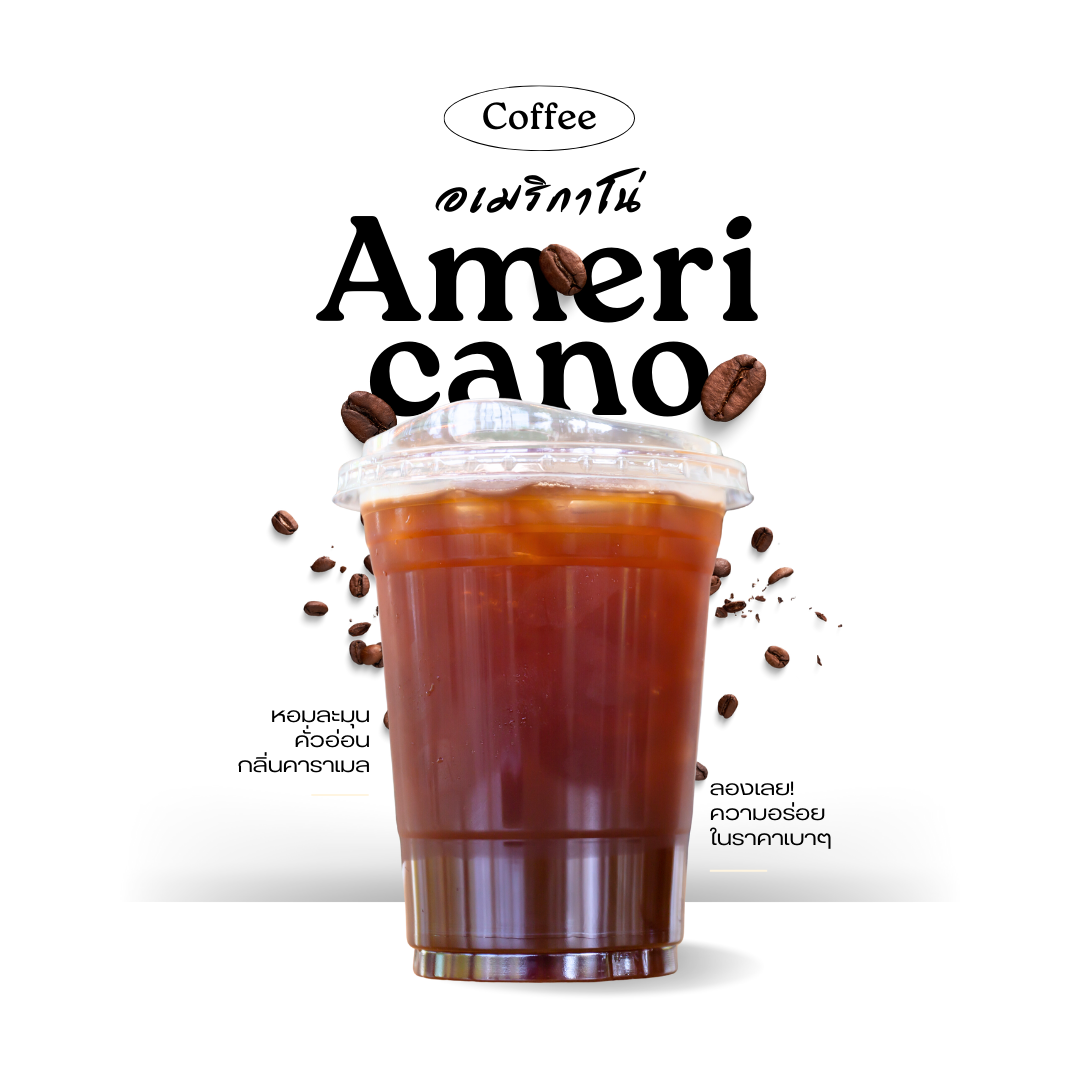
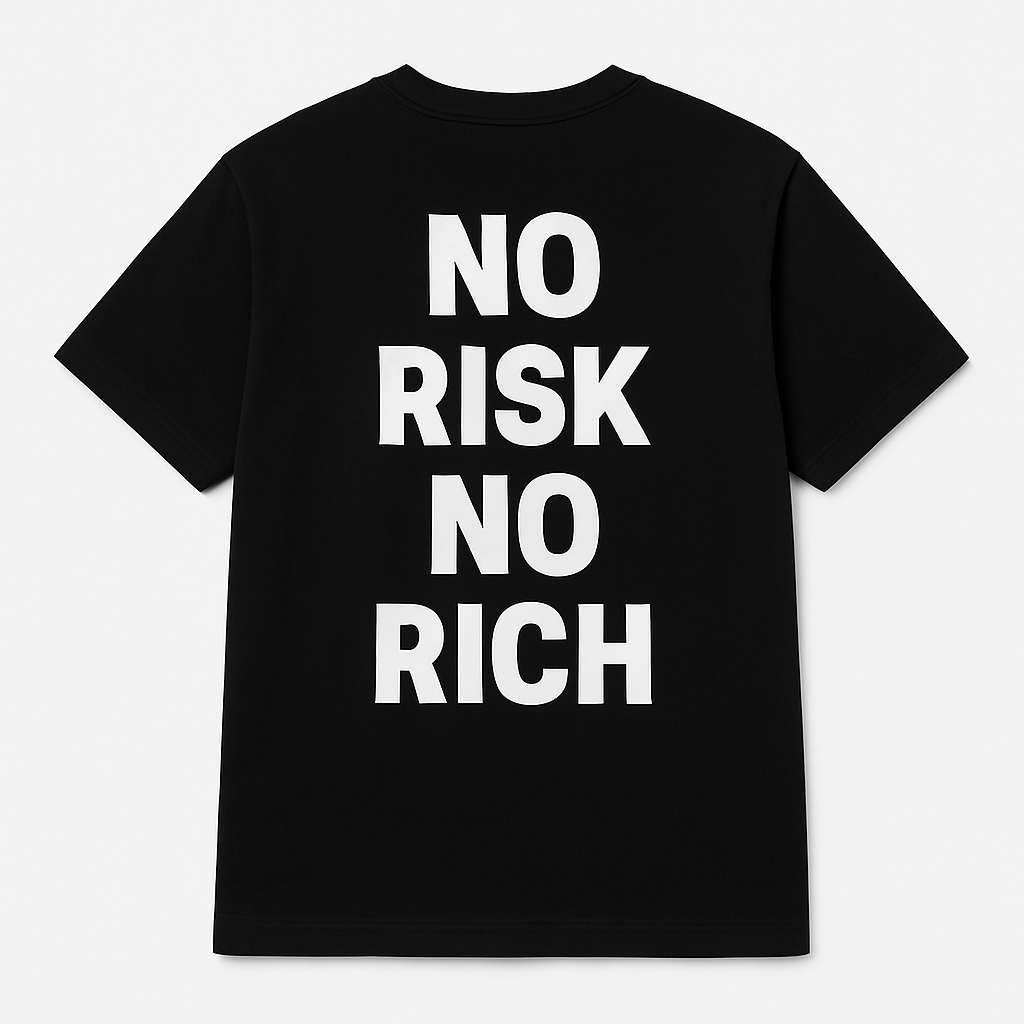
push

diff --git a/app/page.jsx b/app/page.jsx
@@ -5,12 +5,14 @@ import Image from "next/image";
 import React, { useState, useEffect } from "react";
 
 const products = [
-  { id: 1, name: "อเมริกาโน่", price: 60, imageUrl: "/photo/photo1.png", description: "" },
-  { id: 2, name: "น้ำผลไม้", price: 69, imageUrl: "/photo/photo2.png", description: "" },
-  { id: 3, name: "นม", price: 69, imageUrl: "/photo/photo3.png", description: "" },
-  { id: 4, name: "เค้ก", price: 89, imageUrl: "/photo/photo4.png", description: "" },
-  { id: 5, name: "ขนมปังปิ้ง", price: 89, imageUrl: "/photo/photo5.png", description: "" },
-  { id: 6, name: "คุกกี้", price: 95, imageUrl: "/photo/photo6.png", description: "" },
+  { id: 1, name: "NO RICH", price: 399, imageUrl: "/photo/photo1 (1).png", description: "" },
+  { id: 2, name: "P9D COLLECTION - White", price: 699, imageUrl: "/photo/photo2.png", description: "" },
+  { id: 3, name: "FREE", price: 69, imageUrl: "/photo/photo3.png", description: "" },
+  { id: 4, name: "FREE", price: 89, imageUrl: "/photo/photo1 (1).png", description: "" },
+  { id: 5, name: "FREE", price: 89, imageUrl: "/photo/photo1 (1).png", description: "" },
+  { id: 6, name: "FREE", price: 95, imageUrl: "/photo/photo1 (1).png", description: "" },
+  { id: 7, name: "FREE", price: 95, imageUrl: "/photo/photo1 (1).png", description: "" },
+  { id: 8, name: "FREE", price: 95, imageUrl: "/photo/photo1 (1).png", description: "" },
 ];
 
 const bannerImages = [
@@ -65,71 +67,80 @@ export default function Home() {
 
 
 
-  return (
-    <div>
-      <div className="container mx-auto ">
-        {/* Notification Section */}
-        {notification && (
-          <div className="fixed top-[80px] left-1/2 transform -translate-x-1/2 max-w-sm w-full bg-[#979797] text-[#FFFFFF] p-4 rounded-lg shadow-md z-50 transition-opacity duration-300 text-center">
-            {notification}
-          </div>
-        )}
+return (
+<main className="bg-white py-10 px-4 max-w-7xl mx-auto">
+  <section className="w-full flex justify-end">
+    <div className="flex flex-col gap-5 max-w-[1300px] p-5">
+      <h1 className="text-start md:text-end font-semibold text-[18px] md:text-[33px] text-black/60">
+        Discover <span className="text-black">New products to select</span>
+      </h1>
+    </div>
+  </section>
 
-        {/* Banner Section */}
-        <section className={`relative w-full overflow-hidden h-[50vh] md:h-[80vh] transition-opacity duration-500 ${showBanner ? "opacity-100" : "opacity-0"}`}>
-          <div
-            className="relative w-full h-full flex transition-transform duration-1000 ease-in-out"
-            style={{ transform: `translateX(-${(currentBanner * 100)}%)` }}
-            onMouseDown={handleMouseDown}
-            onMouseMove={handleMouseMove}
-          >
-            {bannerImages.map((banner, index) => (
-              <div
-                key={index}
-                className="flex-shrink-0 w-full h-full bg-cover bg-center"
-                style={{ backgroundImage: `url(${banner.url})` }}
-              >
-                <div className="relative container mx-auto h-full flex flex-col justify-center">
-                  <div className="absolute inset-0 bg-black bg-opacity-20 rounded-xl shadow-2xl text-center p-8 flex flex-col justify-center items-center">
-                    <h1 className="text-4xl md:text-6xl mb-2 font-orbitron tracking-wide font-bold text-white">
-                      {banner.caption}
-                    </h1>
-                 
-                  </div>
-                </div>
-              </div>
+<div className="grid grid-cols-1 sm:grid-cols-2 lg:grid-cols-4 gap-6 max-w-7xl mx-auto p-4">
+  {products.map((product) => (
+    <div
+      key={product.id}
+      className="bg-white   transition-shadow duration-300 overflow-hidden group"
+    >
+      {/* Product Image Container */}
+      <div className="relative bg-[#f5f5f7] pb-5 aspect-square">
+        <Image
+          src={product.imageUrl}
+          alt={product.name}
+          width={300}
+          height={300}
+          className="w-full h-full object-contain p-4 "
+        />
+        
+        {/* Action Buttons */}
+        <div className="absolute top-4 right-4 flex flex-col gap-3">
+          <button className="w-10 h-10  border-gray-200 rounded-sm  text-black font-bold flex items-center justify-center  shadow-sm">
+            <svg className="w-5 h-5 text-black font-bold" fill="none" stroke="currentColor" viewBox="0 0 24 24">
+              <path strokeLinecap="round" strokeLinejoin="round" strokeWidth={1.5} d="M4.318 6.318a4.5 4.5 0 000 6.364L12 20.364l7.682-7.682a4.5 4.5 0 00-6.364-6.364L12 7.636l-1.318-1.318a4.5 4.5 0 00-6.364 0z" />
+            </svg>
+          </button>
+          <button className="w-10 h-10  border-gray-200 rounded-sm flex items-center justify-center  shadow-sm">
+            <svg className="w-5 h-5 text-gray-600" fill="none" stroke="currentColor" viewBox="0 0 24 24">
+              <path strokeLinecap="round" strokeLinejoin="round" strokeWidth={1.5} d="M16 11V7a4 4 0 00-8 0v4M5 9h14l1 12H4L5 9z" />
+            </svg>
+          </button>
+        </div>
+
+        {/* Buy Now Overlay */}
+        <div className="absolute inset-x-0 bottom-0 bg-black backdrop-blur-sm text-white text-center py-2 opacity-0 group-hover:opacity-100 transition-opacity duration-300">
+          <button className="text-sm font-medium hover:text-gray-200 transition-colors">
+            Buy Now
+          </button>
+        </div>
+      </div>
+
+      {/* Product Details */}
+      <div className="p-4 space-y-2">
+        <h3 className="text-black line-clamp-2 text-sm font-medium leading-5">
+          {product.name}
+        </h3>
+        
+        <p className=" text-xs text-gray-600">
+          ฿{product.price.toLocaleString()}
+        </p>
+
+        {/* Rating */}
+        <div className="flex items-center justify-start gap-1 pt-1">
+          <div className="flex text-gray-300">
+            {[...Array(5)].map((_, i) => (
+              <span key={i} className="text-lg">☆</span>
             ))}
           </div>
-        </section>
-
-        {/* Featured Products Section */}
-        <main id="featured-products" className="container mx-auto px-4 pt-20">
-  <h1 className={`text-center tracking-wide my-12 font-bold text-black/70 text-3xl transition-opacity duration-500 ${showFeaturedTitle ? "opacity-100" : "opacity-0"}`}>
-    รายการอาหาร
-  </h1>
-  <div className={`grid grid-cols-1 sm:grid-cols-1 md:grid-cols-2 lg:grid-cols-3 gap-8 transition-opacity duration-500 ${showProducts ? "opacity-100" : "opacity-0"}`}>
-    {products.map((product) => (
-      <div key={product.id} className="border border-gray-200 rounded-lg shadow-lg p-6 bg-white transform transition-transform duration-300 hover:scale-105 hover:shadow-2xl flex flex-col h-full">
-        <div className="flex justify-center mb-4">
-          <Image src={product.imageUrl} alt={product.name} width={300} height={300} className="rounded-lg object-cover" />
+          <span className="text-xs text-gray-500 ml-1">(0)</span>
         </div>
-        <div className="flex flex-col flex-grow">
-          <h2 className="text-black text-center text-lg font-semibold mb-2">{product.name}</h2>
-          <p className="text-gray-600 text-center mb-4">{product.description}</p>
-          <p className="text-black text-center font-bold mb-4">ราคา: {product.price} บาท</p>
-        </div>
-        <button
-          onClick={() => handleAddToCart(product)}
-          className="bg-[#000000] text-white py-2 px-4 rounded-lg hover:bg-[#27251f] focus:outline-none focus:ring-2 focus:ring-white focus:ring-opacity-50 active:bg-black transition-colors duration-300 w-full mt-auto"
-        >
-          สั่งซื้อ
-        </button>
-      </div>
-    ))}
-  </div>
-</main>
-
       </div>
     </div>
-  );
+  ))}
+</div>
+</main>
+
+
+);
+
 }

diff --git a/components/Navbar.jsx b/components/Navbar.jsx
@@ -22,10 +22,11 @@ export default function Navbar() {
 
     return (
         <>
-            <nav className="container mx-auto fixed top-0 left-0 right-0 bg-white shadow-lg z-10 p-5 flex justify-between items-center">
+            <nav className="container mx-auto fixed top-0 left-0 right-0 bg-white border-b z-10  flex justify-between items-center">
                 <div className="text-black/80 text-3xl font-bold font-sans">
-                    <Link href="/" className="hover:text-gray-300 transition duration-300"> WUTTINAN CAFE.</Link>
+                    <Link href="/" className="hover:text-gray-300 transition duration-300"></Link>
                 </div>
+
 
                 {/* Hamburger Icon for Mobile */}
                 <div className="md:hidden" onClick={toggleMenu}>
@@ -44,10 +45,10 @@ export default function Navbar() {
                 {/* Desktop Menu */}
                 <ul className={`hidden md:flex md:space-x-8 text-black font-sans text-lg font-thin`}>
                     <li className="my-2">
-                        <Link href="/" className="hover:text-gray-300 transition duration-300">หน้าหลัก</Link>
+                        <Link href="/" className="hover:text-gray-300 transition text-sm duration-300">Home</Link>
                     </li>
                     <li className="my-2">
-                        <Link href="/" onClick={handleScrollToProducts} className="hover:text-gray-300 transition duration-300">เครื่องดื่ม</Link>
+                        <Link href="/" onClick={handleScrollToProducts} className="hover:text-gray-300 transition   text-sm duration-300">Products</Link>
                     </li>
                     <li className="my-2 flex items-center">
                         <Link href="/Cart" className="hover:text-gray-300 transition duration-300 relative">
@@ -60,7 +61,7 @@ export default function Navbar() {
                         </Link>
                     </li>
                     <li className="my-2">
-                        <Link href="/contact" className="hover:text-gray-700 transition duration-300">ติดต่อ</Link>
+                        <Link href="/contact" className="hover:text-gray-700 transition  text-sm duration-300">Contact</Link>
                     </li>
                 </ul>
             </nav>

diff --git a/components/Footer.jsx b/components/Footer.jsx
@@ -4,10 +4,15 @@ const Footer = () => {
   return (
     <footer className="bg-transparent text-black/80 pb-[100px] py-10 border-t  mt-[50px] border-gray-300">
       <div className="container mx-auto text-center">
-        <p className="mb-2">&copy; 2024 Wuttinan. All rights reserved.</p>
+        <p className="mb-2">&copy; 2024 เลวยันเงา. All rights reserved.</p>
         
+              <div className="">
+          <h3 className="text-lg font-semibold">About Us</h3>
+          <p className="max-w-md mx-auto">
+            {/* We are a team of passionate developers dedicated to creating innovative and user-friendly web applications. */}
+          </p>
+        </div>
         <div className="flex flex-col items-center space-y-4">
-          <p>Follow us on social media:</p>
           <div className="flex space-x-4">
             <a href="#" className="hover:text-blue-500">Facebook</a>
             <a href="#" className="hover:text-blue-500">Twitter</a>
@@ -15,12 +20,7 @@ const Footer = () => {
           </div>
         </div>
 
-        <div className="mt-10">
-          <h3 className="text-lg font-semibold">About Us</h3>
-          <p className="max-w-md mx-auto">
-            We are a team of passionate developers dedicated to creating innovative and user-friendly web applications.
-          </p>
-        </div>
+  
       </div>
     </footer>
   );

diff --git a/app/globals.css b/app/globals.css
@@ -1,5 +1,7 @@
 @import url('https://fonts.googleapis.com/css2?family=Orbitron&display=swap');
-@import url('https://fonts.googleapis.com/css2?family=Poppins:wght@400;500;600&display=swap');
+@import url('https://fonts.googleapis.com/css2?family=Outfit:wght@300;400;500;600;700&display=swap');
+@import url('https://fonts.googleapis.com/css2?family=Outfit:wght@100..900&display=swap');
+
 
 @tailwind base;
 @tailwind components;
@@ -15,7 +17,6 @@
   width: 8px;
   /* ความกว้างของ Scrollbar */
 }
-
 ::-webkit-scrollbar-thumb {
   background-color: #9b9b9b;
   /* สีของ Scrollbar */
@@ -48,6 +49,7 @@ body {
   margin: 0;
   padding: 0;
   height: auto;
+  font-family: "Outfit", sans-serif;
 }
 
 * {
@@ -83,9 +85,3 @@ body {
   }
 }
 
-body {
-  color: var(--foreground);
-  background: var(--background);
-  font-family: 'Poppins', sans-serif;
-  /* Use Poppins as default */
-}
